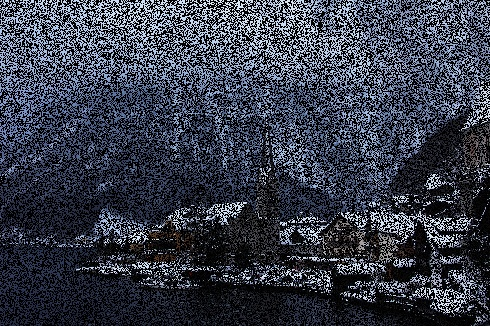
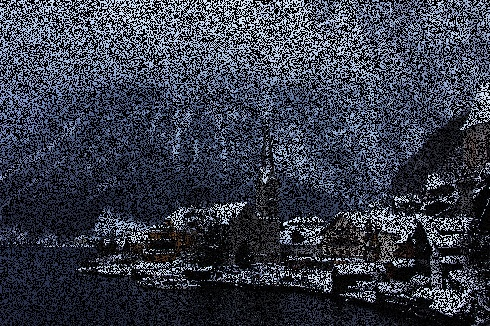
added halton sequnce to generate random pixels

diff --git a/test/sampler.cpp b/test/sampler.cpp
@@ -18,53 +18,99 @@ class Sampler {
 
     private:
         Mat _input_image;
-        int _percent_pixels;
+        int _number_sample_pixel;
+        int _num_pixel_xAxis;
+        int _num_pixel_yAxis;
 
         // random function using pseudo random generator mt19937
         int rand_gen(int min_rand, int max_rand) {
             std::random_device rand_device;
             std::mt19937 generator(rand_device());
             // std::default_random_engine generator;
-            std::uniform_real_distribution<> dist(min_rand, max_rand);
-            // std::uniform_int_distribution<> dist(min_rand, max_rand);
-            float random_number = dist(generator);
+            // std::uniform_real_distribution<> dist(min_rand, max_rand);
+            std::uniform_int_distribution<> dist(min_rand, max_rand);
+            int random_number = dist(generator);
             // cout << "test float random: " << random_number << endl;
 
-            return floor(random_number);
-        }        
+            // return floor(random_number);
+            return random_number;
+        }    
+
+        // help function to generate n-th number of Halton Sequence
+        int halton_single_number(int index, int base) {
+            
+            int result = 0;
+            int n0 = index;
+            float inverse_base = 1 / base;
+
+            do
+            {
+                // compute result
+                int n1 = std::floor(n0 / base);
+                int r = n0 - n1*base;
+                result += inverse_base*r;
+                
+                // prepare for next round
+                inverse_base /= base;
+                n0 = n1;
+
+            } while (n0 > 0);
+            
+            return result;
+        }    
         
     public:
         Sampler(Mat input_image, int percent_pixels){
             _input_image = input_image;
-            _percent_pixels = percent_pixels;
+
+            int _num_pixel_xAxis = _input_image.size().width;
+            int _num_pixel_yAxis = _input_image.size().height;
+            _number_sample_pixel = _num_pixel_xAxis * _num_pixel_yAxis * percent_pixels / 100;
+
         }
 
         // random sampling method
         vector<pair<int, int>> random_sampling() {
-            
-            int num_pixel_xAxis = _input_image.size().width;
-            int num_pixel_yAxis = _input_image.size().height;
-            int number_sample_pixel = num_pixel_xAxis * num_pixel_yAxis * _percent_pixels / 100;
 
-            vector<pair<int, int>> sampled_pxs;
-
-            int x_pos = 0;
-            int y_pos = 0;
+            vector<pair<int, int>> sampled_pxs(_number_sample_pixel);
+            int x_pos;
+            int y_pos;
             std::pair<int, int> pos;
 
-            for(int i = 0; i < number_sample_pixel; ++i) {
+            for(int i = 0; i < _number_sample_pixel; ++i) {
                 vec2 seed_x = {i*123, i*56745};
                 vec2 seed_y = {i*2355.234, i*14124.656};
 
                 do
                 {
-                    x_pos = rand_gen(0, num_pixel_xAxis);
-                    y_pos = rand_gen(0, num_pixel_yAxis);
+                    x_pos = rand_gen(0, _num_pixel_xAxis);
+                    y_pos = rand_gen(0, _num_pixel_yAxis);
 
                     pos = make_pair(x_pos, y_pos);
 
                 } while (find(sampled_pxs.begin(), sampled_pxs.end(), pos) != sampled_pxs.end());
 
+                cout << "(" << pos.first << ", " << pos.second << ")     ";
+                sampled_pxs.push_back(pos);
+            }
+            return sampled_pxs;
+        }
+
+        vector<pair<int, int>> halton_sequence(int base_x, int base_y) {
+
+            vector<pair<int, int>> sampled_pxs(_number_sample_pixel);
+            int x_pos;
+            int y_pos;
+            std::pair<int, int> pos;
+
+            for(int i = 0; i < _number_sample_pixel; ++i) {
+
+                // generate i-th number of Halton Sequence for each axis
+                x_pos = halton_single_number(i, base_x);
+                y_pos = halton_single_number(i, base_y);
+
+                // make pair and push in the pattern vector
+                pos = make_pair(x_pos, y_pos);
                 cout << "(" << pos.first << ", " << pos.second << ")     ";
                 sampled_pxs.push_back(pos);
             }

diff --git a/test/test_1.cpp b/test/test_1.cpp
@@ -68,7 +68,8 @@ int main(int argc, char* argv[]) {
 
     // create new sampler and call random sampling method
     Sampler rand_sampler(downsample_img, pixelPercent);
-    sampling_pattern = rand_sampler.random_sampling();
+    // sampling_pattern = rand_sampler.random_sampling();
+    sampling_pattern = rand_sampler.halton_sequence(2, 3);
 
     // use sampling pattern to resample pixel from input image to output image
     for(int i = 0; i < sampling_pattern.size(); i++) {
@@ -77,4 +78,6 @@ int main(int argc, char* argv[]) {
     }
 
     imwrite("../imgs/random_pixels_out.jpg", resampled_img);
+    // imwrite("../imgs/halton_out.jpg", resampled_img);
+
 }
